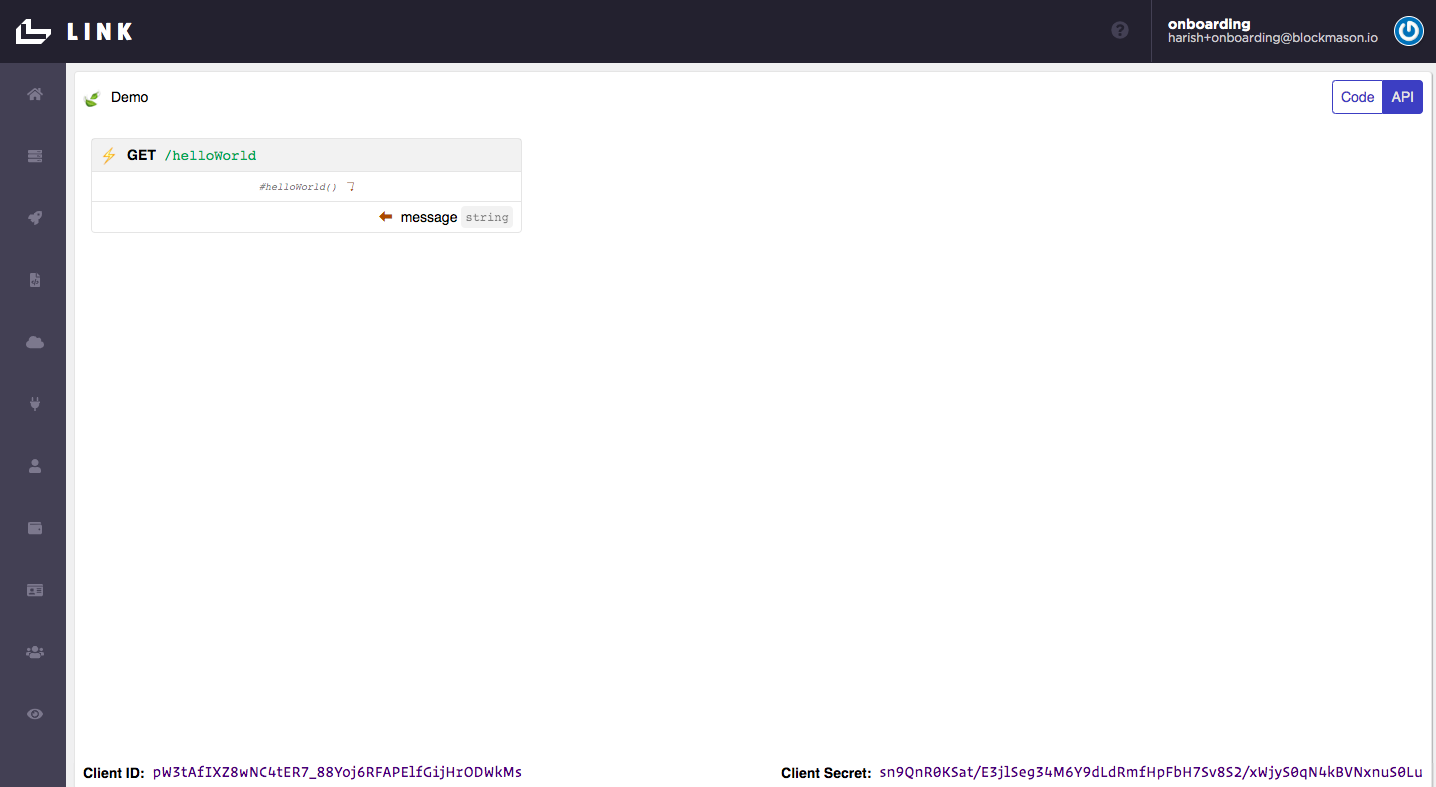
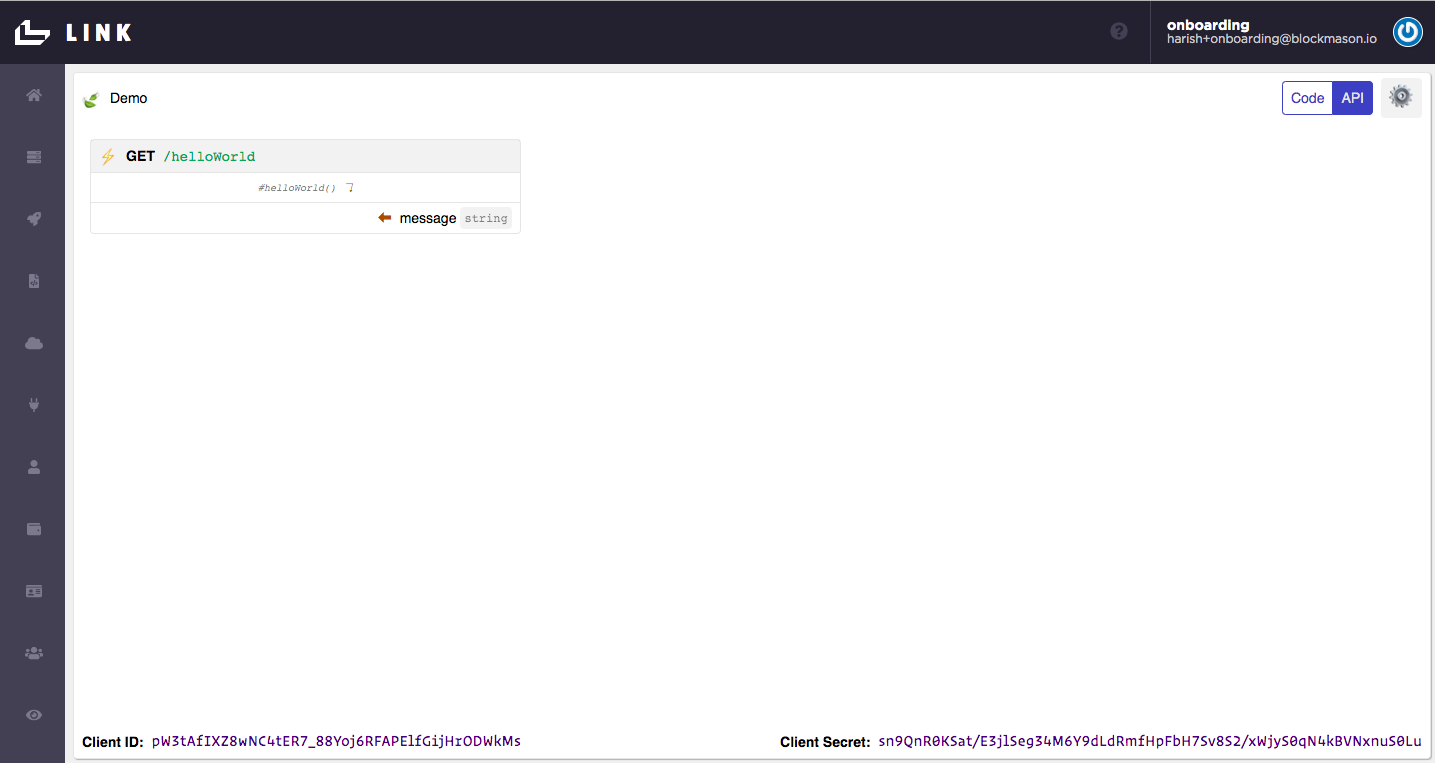
Update onboarding docs & make modular

diff --git a/README.md b/README.md
@@ -23,11 +23,9 @@ Welcome to the Link Homepage! A few things to note here:
 * You can toggle between the code and the Link generated APIs screens:
 ![Link Homepage API](images/link_home_api.png). When you modify your code, your APIs will automatically update!
 
-* At the bottom of the IDE/API window, you will see a `Client ID` and `Client Secret`. These are the credentials your front-end app will use to authenticate with Link to access the API endpoint.
+* Click on the Settings gear icon next to the API toggle and at the bottom of the IDE/API window, you will see a `Client ID` and `Client Secret`. These are the credentials you will use to authenticate with Link to access the API endpoint. These credentials stay the same for each project. 
 
 * Currently, only the Solidity smart contract programming language is supported, which is most notably used on the Ethereum blockchain.
-
-Since smart contracts deployed onto a blockchain are generally immutable (i.e. can NOT be changed), every time you make a change to the smart contract code in the Link IDE, effectively a new smart contract is being deployed which means a new `Client ID` and `Client Secret` will be generated for authentication.
 
 > Try it! Here is a simple smart contract code (from `Ownership.sol`) for assigning ownership of an asset. **Delete** the `Demo` contract code and **copy and paste** the following code into the Link IDE and see what API endpoints are generated (note: it may take a few seconds for the change to persist):
 ```
@@ -46,7 +44,7 @@ contract Ownership {
     }
 }
 ```
-Your generated API endpoints should look something like the following. Also note the `Client ID` and `Client Secret` have changed!
+Your generated API endpoints should look something like the following.
 
 ![Link Ownership APIs](images/link_ownership_apis.png)
 
@@ -63,17 +61,19 @@ With all our SDKs, generally all you need is the `Client ID` and `Client Secret`
 
 The following link is to a simple example using the [JavaScript SDK](https://github.com/blockmason/link-sdk.js "Link JavaScript SDK") and our Ownership smart contract code from the previous section. Note this example uses the JavaScript SDK from a Node.js environment which requires the use of `node-fetch`: 
 
-https://github.com/blockmason/link-onboarding/blob/master/ownership.js
+https://github.com/blockmason/link-onboarding/blob/master/ownership-link-sdk-demo.js
 
-First, `POST /setOwner` is called to set the owner of an asset and then `GET /getOwner` is called to retrive the owner address, with the request parameters and response object based on the Link API documentation. If I run the `ownership.js` script using Node from my Terminal, for example, I get:
+First, `POST /setOwner` is called to set the owner of an asset and then `GET /getOwner` is called to retrive the owner address, with the request parameters and response object based on the Link API documentation. If I run the `ownership-link-sdk-demo.js` script using Node from my Terminal, for example, I get:
 
 ![Ownership Script Example](images/ownership_script_example.png)
 
 Note: we do NOT need to use a complex library such as web3.js in our JavaScript file as Link abstracts away the blockchain interactions and complexity 'under-the-hood'. We are simply making an API call as we would with any 3rd party service.
 
-### Using Ethereum or other public blockchains
+### Using Public blockchains
 
-Currently Link supports [Ethereum](https://www.ethereum.org/) and [GoChain](https://gochain.io/) public blockchains. 
+Currently Link supports the following public blockchains: 
+* [Ethereum](https://www.ethereum.org/)
+* [GoChain](https://gochain.io/) 
 
 The process for connecting and interacting with an external blockchain using Link is a bit more involved but relatively straightforward using the Link Project Wizard. In general, the process flow looks something like this (the deployment process for the Link private blockchain greyed out):
 
@@ -81,90 +81,8 @@ The process for connecting and interacting with an external blockchain using Lin
 
 1. Create your smart contract in Link
 2. Label your public blockchain
-3. Setup your network connector by identifying the network RPC provider API endpoint. For Ethereum, we recommend using a hosted provider such as Infura. See [here](https://github.com/gochain-io/docs#network-rpc-urls) for GoChain. 
+3. Setup your network connector by identifying the network's public JSON-RPC API endpoint. 
 4. Deploy your smart contract onto the public blockchain
 5. Label your generated APIs
 6. Label your API Consumer (e.g. the name of your app using the APIs)
 7. Obtain your OAuth API authentication (automatically generated)
-
-Let's walk through the process for deploying and setting up our Ownership smart contract APIs on the Ethereum Ropsten Testnet. 
-
-#### Using Ethereum Ropsten with Link
-
-##### Setup
-
-> First, setup an account on Infura, which provides easy-to-use APIs to interact with the Ethereum network without running your own Ethereum node. Register for an API key at https://infura.io/register and then create a project. You will then be able to access URLs containing your API key for the Ethereum Mainnet and all Testnets such as Ropsten which we will be using.
-
-![Infura Setup](images/infura.png)
-
-> Now seed your Link account wallet with test ETH from https://faucet.ropsten.be/ (1 ETH will be dripped to your wallet), which will be used to pay for transactions on the Ropsten testnet. You can find your Link account wallet address from the Ethereum Account menu as shown:
-
-![Ethereum Account Link](images/ethereum_account_link.png)   
-
-![Ropsten Faucet](images/ropsten_faucet.png)
-
-**Note: This Ropsten Faucet tracks the IP of the source making the request. On a common WiFi network, multiple requests from the same external IP will trigger the IP to be grey-listed for 24 hours. If so, connect your laptop to a different WiFi network or temporarily connect to a phone's WiFi hotspot when making the request**
-
-##### API project setup in Link
-
-> 1. In Link, open up the setting dropdown menu and select *`New Project`* which starts the new project wizard.
-
-![Link New Project](images/link_new_project.png)
-
-> 2. Under *Which contract would you like to use?*, select `Ownership` which we created in Part 1.
-
-> 3. Under *Which Ethereum account would you like to use?*, use the *`Default Account`*. This is the account we seeded earlier with test ETH. 
-
-![Default Link Account](images/default_account_link.png)
-
-> 4. Under *Which network would you like to use?*, select *`Create new`* and call it `Ethereum Ropsten Testnet`. Keep the *Block Confirmations Needed* at 0. Press *`Save`* and *`Next`*.
-
-> 5. Under *Which connector would you like to use?*, select *`Create new`*. Call this connector `Infura Ropsten Connector` and use the URL for the Ropsten network from Infura (e.g. https://ropsten.infura.io/v3/182b941b70e6443b8854cc53786a3007). Ensure the *Network* selected is *`Ethereum Ropsten Testnet`*. Press *`Save`* and *`Next`*.
-
-![New Ropsten Connector Link](images/ropsten_connector_link.png)
-
-> 6. Now we just need to label our Deployment. Under *Where is your contract deployed?*, select *`Create new`*. Call this deployment `Ownership Ropsten Testnet Deployment`. Since we do not have **an existing contract deployment on Ethereum**, leave the *Address* field blank. Ensure the *Account* is the `Default Account`, the *Contract* is the `Ownership` contract and the *Network* `Ethereum Ropsten Testnet`. Press *`Save`* and *`Next`*.
-
-![Ethereum deployment Link](images/ropsten_deployment_link.png)
-
-> 7. Now we're ready to deploy our contract to the Ethereum Ropsten Testnet. Press `Deploy` and you should get a deployment in progress indicator icon. This might take a few seconds to complete. If deployed correctly, you'll proceed to the next step to setup your API.
-
-![Ready to Deploy in Link](images/ready_deploy_ropsten_link.png)
-
-> 8. Now we label our Ownership contract API. Under *Name*, call it *`ownership-ropsten-testnet`* Also add in a human-readable display name. Ensure you are using the correct *Contract Deployment*. Press *`Save`* and *`Next`*.
-
-> 9. Now we label our Ownership API **Consumer**. This would normally be the name of the app or service calling the API. For example, let's call the consumer `Collectible Stamps App Ropsten`. Ensure you are using the correct *API* and *Account*. Press *`Save`* and *`Next`*.
-
-![Link Consumer New](images/link_consumer_ropsten.png)
-
-> 10. Lastly, your consumer needs to authenticate with the Ownership API. A OAuth2.0 Client Secret is automatically generated. Ensure you are using the correct Principal/Consumer. Press *`Save`*, *`Next`* and then *`Finish`*.
-
-![Create new OAuth](images/oauth_link_new.png)
-
-Once you hit *`Finish`*, you should see your Ownership API documentation. Note the `client_id` and `client_secret` under *Authentication* which you will later use in your front-end app. 
-
-![API Documentation Link](images/ropsten_api_doc.png)
-
-Let's also check that our Ownership contract deployed correctly on the Ethereum Ropsten Testnet. Click on the `Ethereum Contract Deployments` menu item to see a list of contract deployments and their addresses. Copy and paste the address of the `Ownership Ropsten Testnet Deployment` into the Ropsten Testnet explorer https://ropsten.etherscan.io to see the details of your contract deployment.
-
-![Link Contract Deployments List](images/link_contract_deployments_list.png)
-
-In the above example, the contract address on Ropsten Testnet is `0x5d81167993cb26e25e60be9deb58aab0fe93eccc`.
-
-![Ropsten Explorer](images/ropsten_explorer_contract.png)
-
-And we see our contract deployed on the Ropsten Testnet!
-
-Now you can go ahead and use the API endpoints which are linked to the Ownership smart contract deployed on Ethereum Ropsten!
-
-**Note:** If you want to deploy on the Ethereum Mainnet, just follow the same steps. The only difference is that you will need to:
-* > Acquire actual ETH to send to your Link wallet
-* > Use the Infura Mainnet URL
-
-##### Deploying to GoChain
-The process for deploying to GoChain (the Testnet or Mainnet) is also very similar. Just follow the same steps as above with only the following differences:
-
-* > Ask for some free testnet GO in GoChain's [Testnet Telegram](https://t.me/gochain_testnet) to be sent to your Link account
-* > For your Link Network Connector, use the appropriate [GoChain Network RPC URL](https://github.com/gochain-io/docs#network-rpc-urls)
-
-Now you can run a front-end app using multiple blockchains with Link by simply using the appropriate set of API credentials that you setup in your front-end app! Link, with its inter-operability feature, opens up the ability for developers to **pick and choose what information to record on what blockchain**, depending on the desired benefits, versus having to pick and chose a specific blockchain and tech stack!
